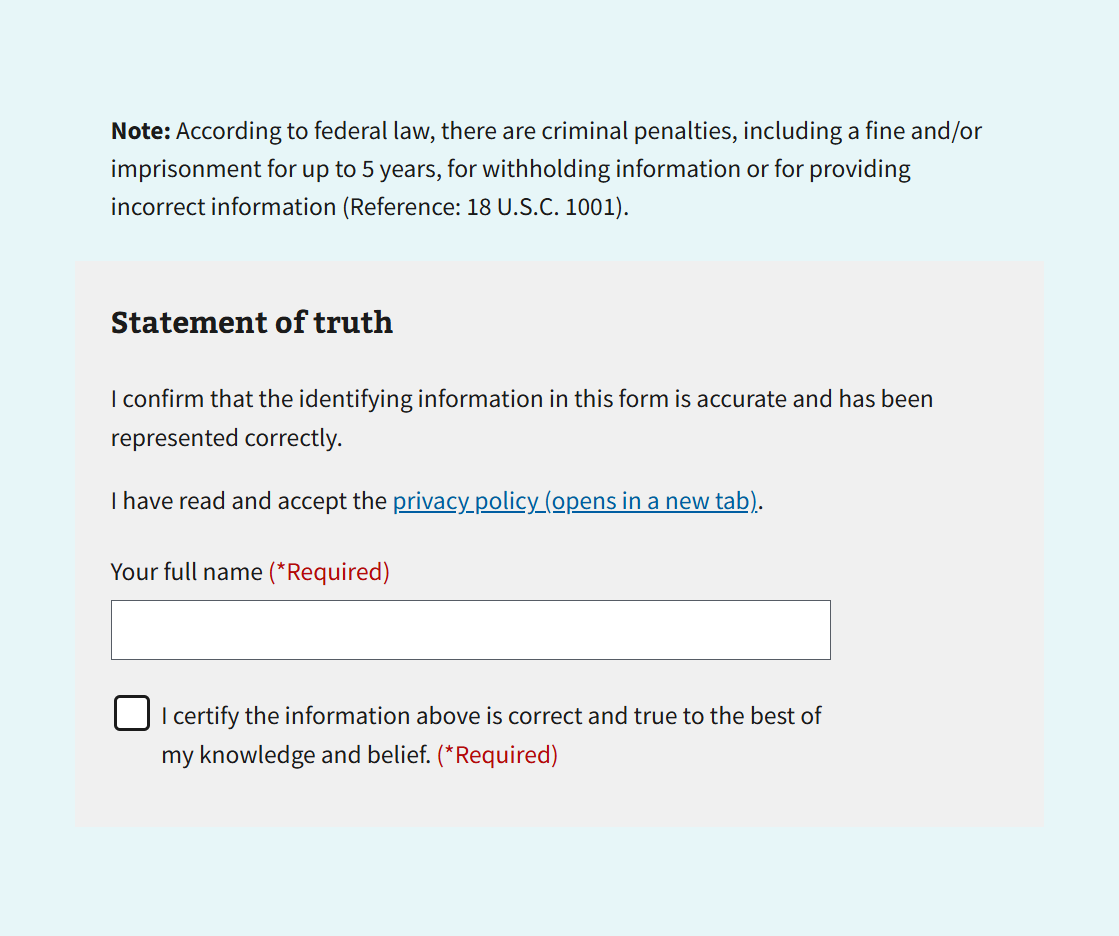
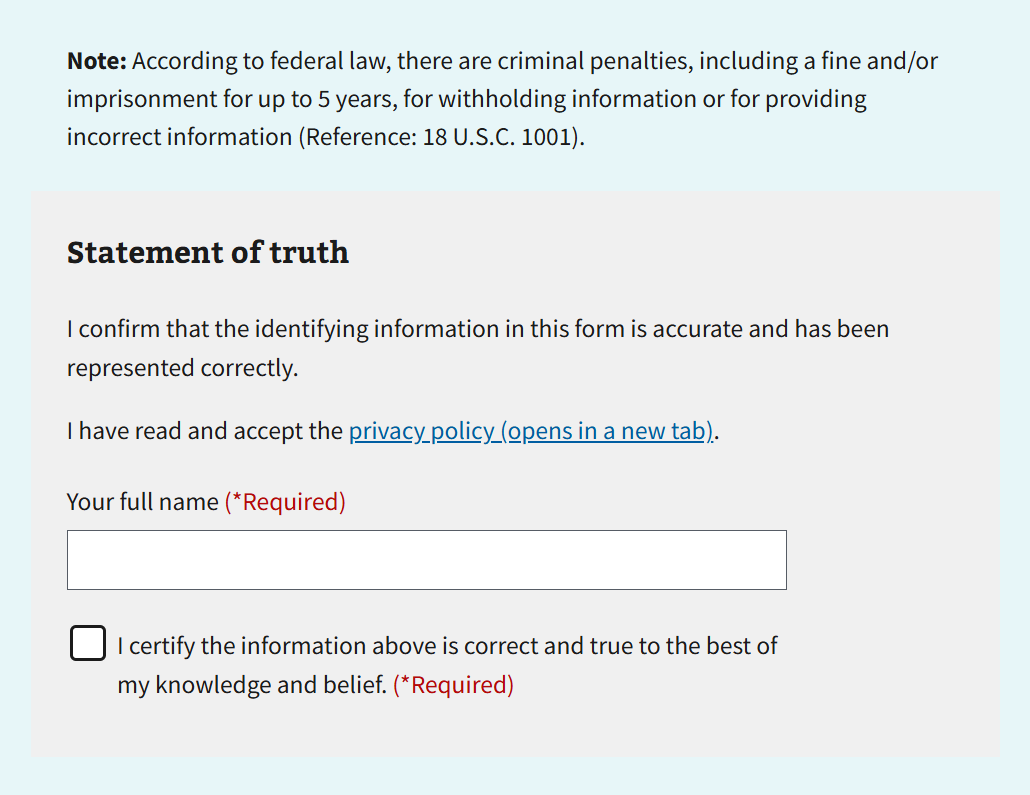
- Adds statement-of-truth image src as a template variable. - Uploads statement-of-truth image. - Passes image src from controller to template. - Updates tests.

diff --git a/tests/phpunit/va_gov_form_builder/functional/Controller/VaGovFormBuilderControllerTest.php b/tests/phpunit/va_gov_form_builder/functional/Controller/VaGovFormBuilderControllerTest.php
@@ -233,6 +233,10 @@ class VaGovFormBuilderControllerTest extends VaGovExistingSiteBase {
     $this->assertArrayHasKey('content', $page);
     $this->assertArrayHasKey('#theme', $page['content']);
     $this->assertEquals('page_content__va_gov_form_builder__review_and_sign', $page['content']['#theme']);
+
+    // Ensure css is added.
+    $this->assertArrayHasKey('#attached', $page);
+    $this->assertContains('va_gov_form_builder/va_gov_form_builder_styles__review_and_sign', $page['#attached']['library']);
   }
 
 }

diff --git a/tests/phpunit/va_gov_form_builder/unit/ModuleTest.php b/tests/phpunit/va_gov_form_builder/unit/ModuleTest.php
@@ -99,6 +99,7 @@ class ModuleTest extends VaGovUnitTestBase {
     $this->assertArrayHasKey($reviewAndSignTheme, $result);
     $this->assertEquals($page_content_theme_path, $result[$reviewAndSignTheme]['path']);
     $this->assertArrayHasKey('variables', $result[$reviewAndSignTheme]);
+    $this->assertArrayHasKey('statement_of_truth_preview_url', $result[$reviewAndSignTheme]['variables']);
     $this->assertArrayHasKey('return_to_layout_url', $result[$reviewAndSignTheme]['variables']);
 
     // Form themes.

diff --git a/docroot/modules/custom/va_gov_form_builder/src/Controller/VaGovFormBuilderController.php b/docroot/modules/custom/va_gov_form_builder/src/Controller/VaGovFormBuilderController.php
@@ -407,6 +407,7 @@ class VaGovFormBuilderController extends ControllerBase {
 
     $pageContent = [
       '#theme' => self::PAGE_CONTENT_THEME_PREFIX . 'review_and_sign',
+      '#statement_of_truth_preview_url' => '/modules/custom/va_gov_form_builder/images/statement-of-truth.png',
       '#return_to_layout_url' => $this->getPageUrl('layout'),
     ];
     $subtitle = $this->digitalForm->getTitle();
